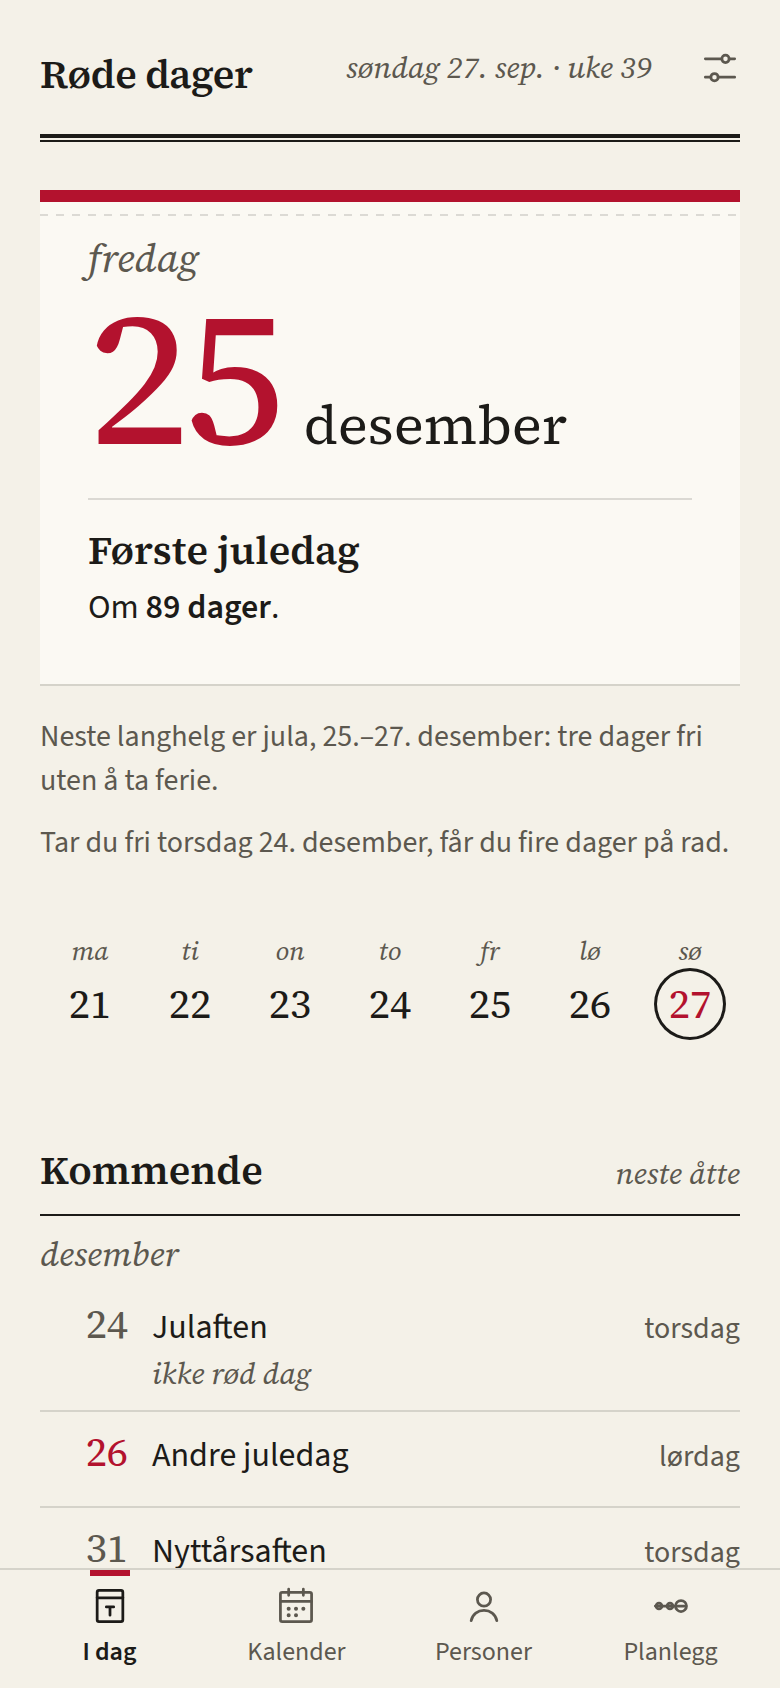
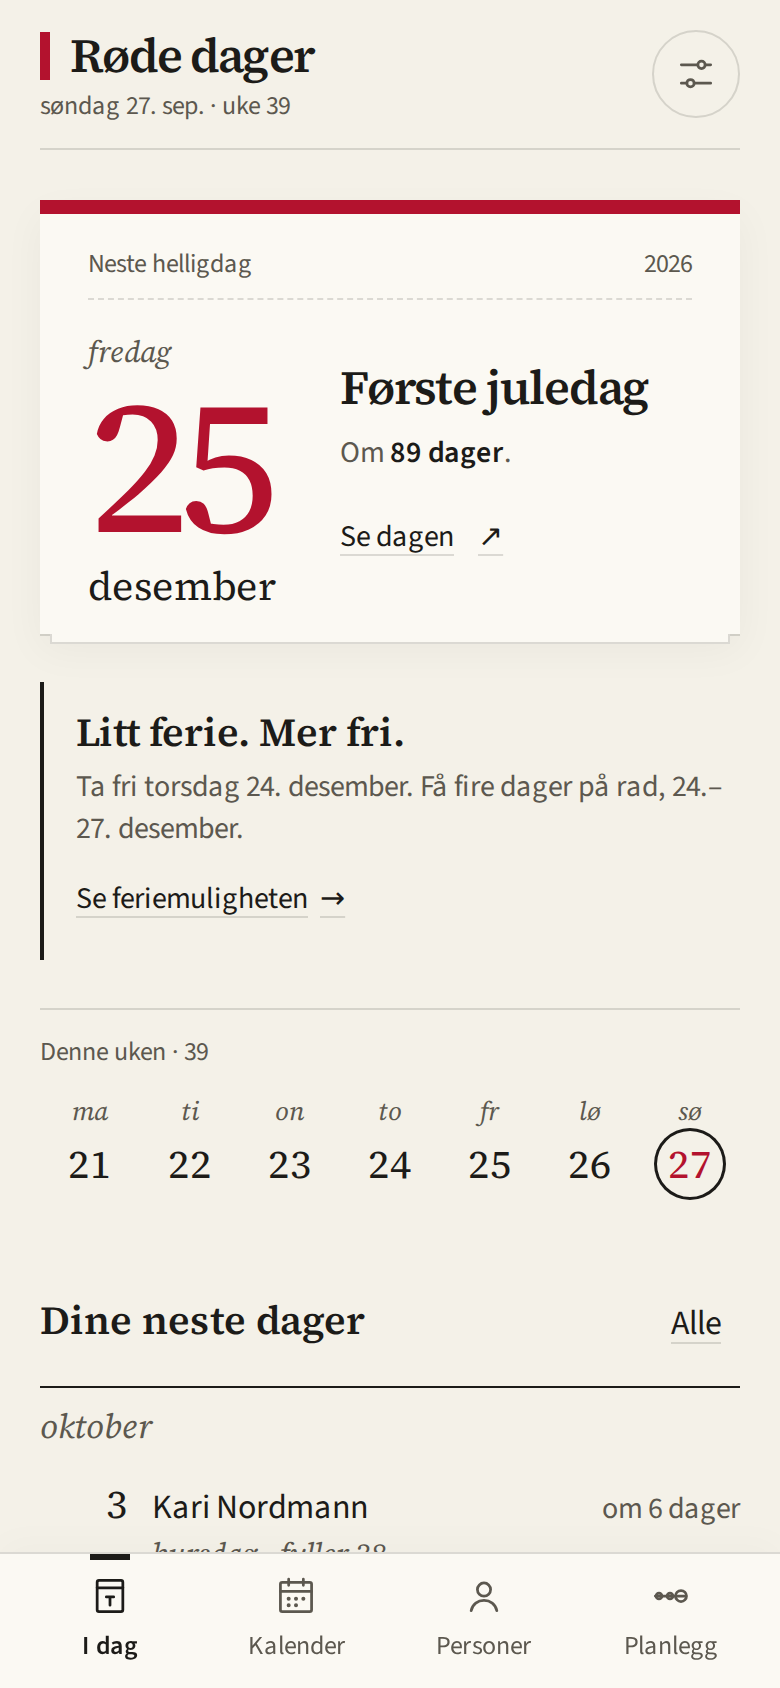
Oppdater installasjonsbilder fra kontrollert 4.0.1 og dokumenter 25 beståtte nettlesertester

diff --git a/docs/REVISJON-3.md b/docs/REVISJON-3.md
@@ -63,7 +63,7 @@ prioritering og handlinger som faktisk henger sammen.
   kalenderbladet, kompakt liste, årsskifte, budsjett, ferie i kalenderen,
   varig lagring og redusert bevegelse. Den eksisterende kontrollen dekker
   lyse/mørke temaer, 320/390 px, axe, tastatur, historikk og bruk uten nett.
-- GitHub CI har bestått alle 23 nettlesertester. Ingen alvorlige eller kritiske
+- GitHub CI har bestått alle 25 nettlesertester. Ingen alvorlige eller kritiske
   axe-funn ble rapportert på de testede sidene i begge temaer ved 320/390 px.
 - Nye installasjonsskjermbilder produseres som CI-artefakter. Skjermbildene fra
   første kjøring er visuelt gjennomgått i begge temaer.
@@ -71,3 +71,6 @@ prioritering og handlinger som faktisk henger sammen.
 Nettlesertestene er kjørt i GitHub CI. Ingen fysisk Samsung-telefon er testet.
 Det nye visuelle uttrykket er kontrollert i CI-skjermbilder; animasjonenes
 opplevde kvalitet er fortsatt ikke vurdert på en fysisk telefon.
+
+Installasjonsbildene i `screenshots/` viser den ferdige versjonen ved 390 px bredde,
+levert i dobbel oppløsning (780 × 1688 px).
